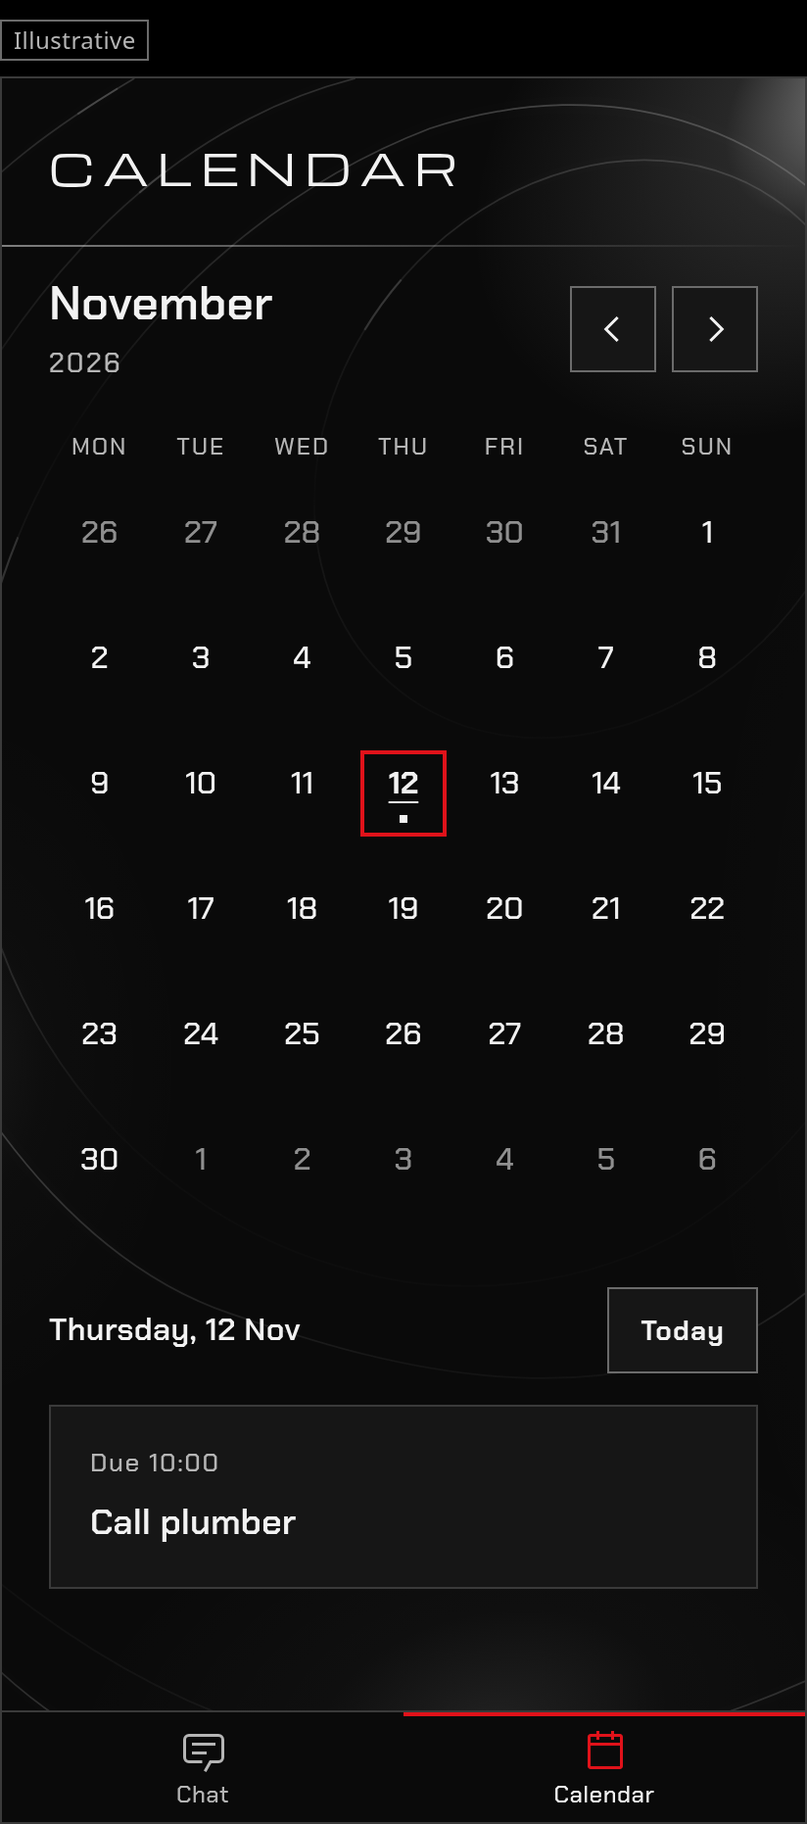
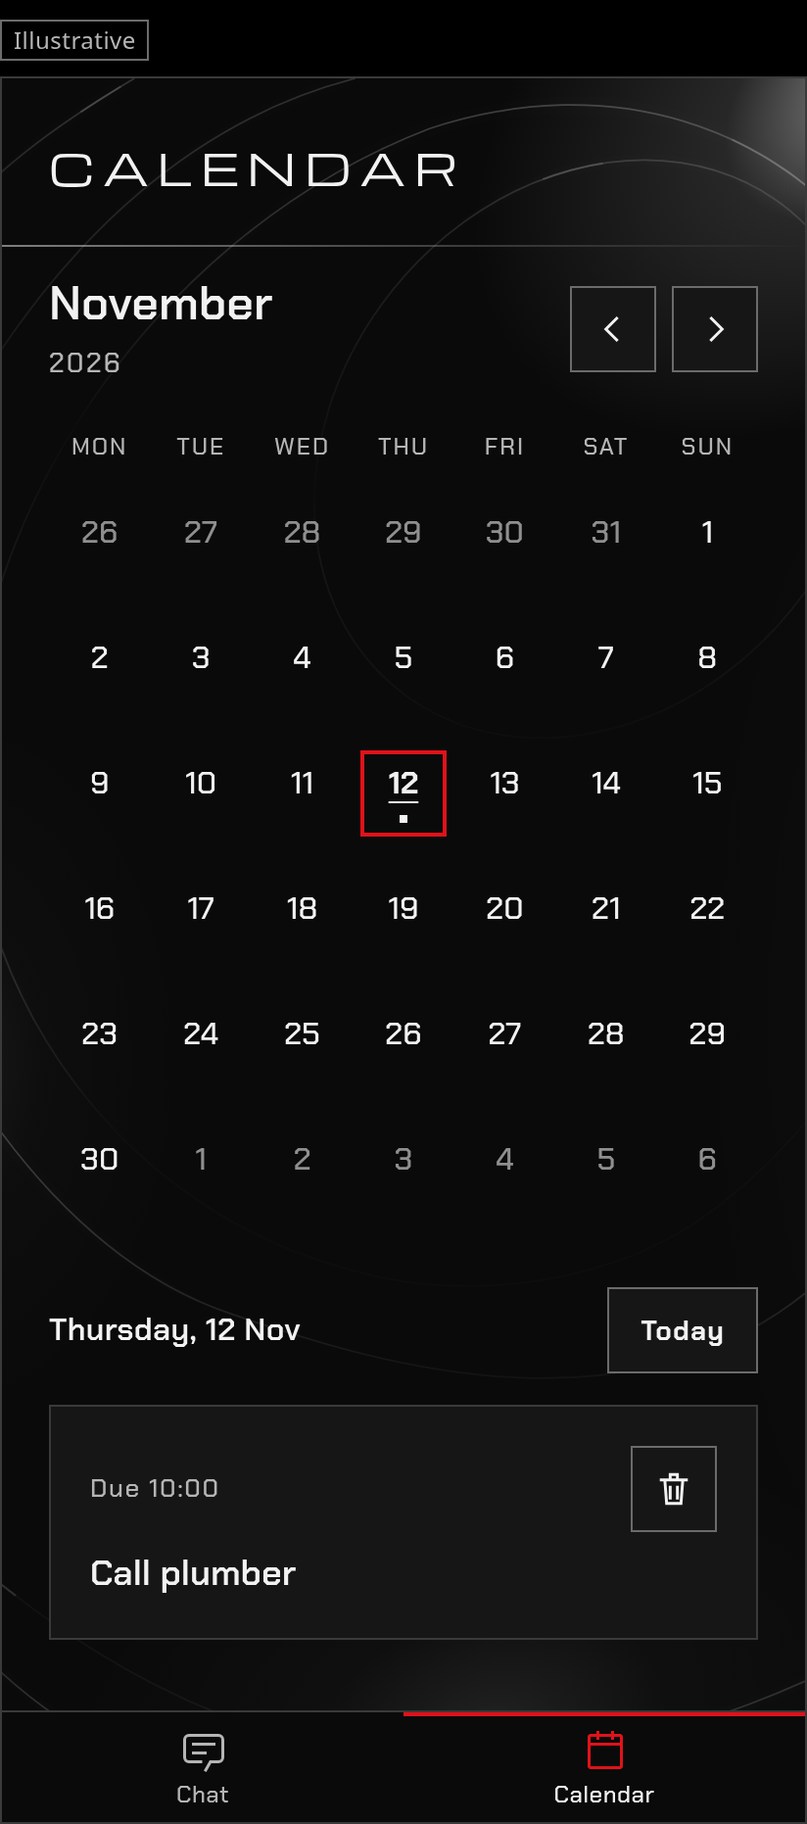
Document deleting items, the quieter Retry and the calendar Delete control

Changed region(s): [[0.091, 0.7787, 0.3641, 0.8722], [0.8192, 0.8099, 0.8495, 0.841], [0.0607, 0.8722, 0.091, 0.9033]]

diff --git a/brand/index.html b/brand/index.html
@@ -310,6 +310,7 @@ footer{padding:28px 20px 28px calc(var(--col) + 24px);font-size:12px;letter-spac
 .calendar-layout .cal-date{font-size:16px;font-weight:600;line-height:24px;letter-spacing:.01em}
 .calendar-layout .cal-today{width:auto;padding:0 16px}
 .calendar-layout .cal-event{margin-top:16px;padding:20px;background:var(--panel);border:1px solid var(--line)}
+.calendar-layout .cal-event-top{display:flex;align-items:center;justify-content:space-between;gap:16px}
 .calendar-layout .cal-time{color:var(--muted);font-size:13px;line-height:18px;letter-spacing:.06em}
 .calendar-layout .cal-event-title{margin-top:8px;font-size:18px;font-weight:600;line-height:26px}
 .calendar-example-wrap{max-width:100%;overflow-x:auto;margin-top:24px}
@@ -606,7 +607,7 @@ footer{padding:28px 20px 28px calc(var(--col) + 24px);font-size:12px;letter-spac
   <div class="cal-day other"><div class="cal-face"><span class="cal-number">5</span><span class="cal-marker"></span></div></div>
   <div class="cal-day other"><div class="cal-face"><span class="cal-number">6</span><span class="cal-marker"></span></div></div>
  </div>
- <div class="cal-agenda"><div class="cal-agenda-header"><div class="cal-date">Thursday, 12 Nov</div><span class="cal-control cal-today">Today</span></div><div class="cal-event"><div class="cal-time">Due 10:00</div><div class="cal-event-title">Call plumber</div></div></div>
+ <div class="cal-agenda"><div class="cal-agenda-header"><div class="cal-date">Thursday, 12 Nov</div><span class="cal-control cal-today">Today</span></div><div class="cal-event"><div class="cal-event-top"><div class="cal-time">Due 10:00</div><span class="cal-control cal-delete" aria-label="Delete"><svg viewBox="0 0 24 24"><path d="M5 7h14M10 7V4h4v3M7 7l1 13h8l1-13M10 11v6M14 11v6"/></svg></span></div><div class="cal-event-title">Call plumber</div></div></div>
 </div>
 <div class="nav two"><div><i class="cb i-chat"></i>Chat</div><div class="on"><i class="cb i-cal"></i>Calendar</div></div>
 </div></div>

diff --git a/docs/mockups/calendar.html b/docs/mockups/calendar.html
@@ -56,7 +56,7 @@
   <div class="cal-day other"><div class="cal-face"><span class="cal-number">5</span><span class="cal-marker"></span></div></div>
   <div class="cal-day other"><div class="cal-face"><span class="cal-number">6</span><span class="cal-marker"></span></div></div>
  </div>
- <div class="cal-agenda"><div class="cal-agenda-header"><div class="cal-date">Thursday, 12 Nov</div><span class="cal-control cal-today">Today</span></div><div class="cal-event"><div class="cal-time">Due 10:00</div><div class="cal-event-title">Call plumber</div></div></div>
+ <div class="cal-agenda"><div class="cal-agenda-header"><div class="cal-date">Thursday, 12 Nov</div><span class="cal-control cal-today">Today</span></div><div class="cal-event"><div class="cal-event-top"><div class="cal-time">Due 10:00</div><span class="cal-control cal-delete" aria-label="Delete"><svg viewBox="0 0 24 24"><path d="M5 7h14M10 7V4h4v3M7 7l1 13h8l1-13M10 11v6M14 11v6"/></svg></span></div><div class="cal-event-title">Call plumber</div></div></div>
 <div class="nav two"><div><i class="cb i-chat"></i>Chat</div><div class="on"><i class="cb i-cal"></i>Calendar</div></div>
 </div>
 </div></div></body></html>

diff --git a/docs/mockups/common.css b/docs/mockups/common.css
@@ -188,6 +188,7 @@ html,body{margin:0;background:#000}
 .calendar-layout .cal-date{font-size:16px;font-weight:600;line-height:24px;letter-spacing:.01em}
 .calendar-layout .cal-today{width:auto;padding:0 16px}
 .calendar-layout .cal-event{margin-top:16px;padding:20px;background:var(--panel);border:1px solid var(--line)}
+.calendar-layout .cal-event-top{display:flex;align-items:center;justify-content:space-between;gap:16px}
 .calendar-layout .cal-time{color:var(--muted);font-size:13px;line-height:18px;letter-spacing:.06em}
 .calendar-layout .cal-event-title{margin-top:8px;font-size:18px;font-weight:600;line-height:26px}
 .calendar-example-wrap{max-width:100%;overflow-x:auto;margin-top:24px}

diff --git a/docs/evidence/app-icon.md b/docs/evidence/app-icon.md
@@ -1,36 +1,32 @@
-# App icon redesign and faster highlights
+# App icon and orbital highlights
 
-Date: 2026-11-13. Branch: `app-icon-orbital` (from `notification-body-tap`; merged into local `main`, not pushed). Version 0.6.1+21, then 0.6.2+22.
+Date: 2026-11-13. Version 0.6.2+22. Merged into local `main`; not pushed.
 
-The owner chose the Michroma M with a lit rim (variant C) over the Orbital background, then asked for 75 percent more intense background animation. A first change raised highlight alphas; the owner rejected it. Highlight brightness is unchanged. APK 0.6.1 made highlights 1.75 times faster (102.857 s loop). The owner then asked for another 50 percent: APK 0.6.2 loops in 68.571 s, 2.625 times the original 180 s speed. APK 0.6.1 and the first 0.6.2 draft moved linearly (`AnimationController.repeat()`, no curve). The owner then asked for ease in and out: the highlight painter now applies `Curves.easeInOut` to the loop value, so highlights slow near each loop point and peak at about 1.5 times the mean speed mid-loop.
+## Current state
 
-## Icon
+The launcher icon is the Michroma M with a lit rim over the Orbital background. It has no Signal red.
+`brand/app-icon.svg` has two layers, `minder-orbit` and `minder-mark`. The M outline comes from `app/assets/fonts/Michroma-Regular.ttf` and is 52 units wide.
+`toolchain/render-icons.py` exports the Android adaptive background and foreground as bitmaps, the monochrome vector, the legacy and web PNGs, the favicon and the grant logo.
+The adaptive background shrinks the orbit art to 75 percent so the lines stay inside circle and squircle masks.
 
-`brand/app-icon.svg` has two layers: `minder-orbit` and `minder-mark`. The M outline comes from `app/assets/fonts/Michroma-Regular.ttf`, 52 units wide. The icon has no Signal red.
-`toolchain/render-icons.py` exports the Android adaptive background and foreground (bitmap), the monochrome vector, legacy and web PNGs, the favicon and the grant logo.
-The adaptive background shrinks the orbit art to 75 percent so the lines remain inside circle and squircle masks. Mask previews were checked by eye at circle, squircle and 72 dp size; no physical launcher was checked.
+The orbital highlights ease in and out (`Curves.easeInOut`) over a 68.571 s loop. That is 2.625 times the speed of the original 180 s linear loop. Peak speed mid-loop is about 1.5 times the mean. Highlight brightness did not change.
 
 ## Checks
 
-| Command or check | Observed result |
+| Check | Result |
 |---|---|
-| New loop-speed test at the old 180 s duration | Failed as expected |
-| Same test after the change to 102.857 s | Passed |
-| `toolchain/check` | Passed, exit 0: 85 Flutter tests, analysis, format, Go, hooks, architecture, DOX and orbital export checks |
+| Loop-time test at the old 180 s duration | Failed, as expected |
+| Ease test at linear motion | Failed, as expected |
+| Both tests after the change | Passed |
+| `toolchain/check` | Exit 0, 86 Flutter tests, with analysis, format, Go, hooks, architecture, DOX and orbital export checks |
 | `toolchain/run flutter flutter build apk --release --target-platform android-arm64` | Exit 0, 19,224,006 bytes |
-| APK badging (aapt2) | `io.liveleds.minder`, version 0.6.1, version code 21 |
-| APK signature (apksigner) | Verified; certificate SHA-256 `7bbc3aba…d2572` matches the previous APK |
-| APK adaptive icon | Background, foreground and monochrome layers present |
+| aapt2 badging | `io.liveleds.minder`, version 0.6.2, code 22 |
+| apksigner | Verified. The certificate SHA-256 `7bbc3aba…d2572` matches earlier APKs |
 
[1 lines of base64/hex data omitted]
-
-## Delivery
-
-Telegram delivery used the TokenCrypt secrets `telegram_astrabot_token` and `telegram_astrabot_chatid` and the existing bot and chat. Telegram confirmed one upload (message 1993, HTTP 200). A first attempt with a mistaken `--with` list returned 404 and delivered nothing.
-
[2 lines of base64/hex data omitted]
+Telegram confirmed one upload of 0.6.2 (message 1994). Delivery used the TokenCrypt secrets `telegram_astrabot_token` and `telegram_astrabot_chatid`. APK 0.6.1 reached Telegram earlier (message 1993).
 
 ## Limits
 
-- Frame timing, battery use and the look on a physical launcher are unchecked. Phone approval is pending.
-- Release web and the browser scenarios were not run; the change does not cross the client/server boundary.
+- Nobody has checked the icon on a physical launcher, or frame timing and battery use. Phone approval is pending.
+- Release web and the browser scenarios did not run for this change. It does not cross the client/server boundary.

diff --git a/docs/superpowers/specs/2026-11-13-delete-items-design.md b/docs/superpowers/specs/2026-11-13-delete-items-design.md
@@ -4,7 +4,7 @@ Status: approved by the owner on 2026-11-13 ("Yes") as one slice. Inline executi
 
 ## Intent
 
-An event added by accident confuses the agent when the owner adds something similar. Chat has no cancel tool, so "cancel it" falls back to `propose_complete` and the item becomes `done`. The chat list also keeps a "Check your connection. Retry" block after the connection recovers, and the list pins it into view.
+The owner added an event by accident, and it confuses the agent when they add something similar. Chat has no cancel tool, so "cancel it" falls back to `propose_complete` and the item becomes `done`. The chat list also keeps a "Check your connection. Retry" block after the connection recovers, and the list pins it into view.
 
 ## Goals
 
@@ -16,11 +16,11 @@ An event added by accident confuses the agent when the owner adds something simi
 
 - No bulk delete. No new screens. No change to the email capture flow beyond deleting an orphaned source.
 - A delete that leaves chat cards, reminders or an unused email source behind has failed.
-- A connection drop must never leave a block in chat after recovery.
+- After a connection drop recovers, no error block stays in the chat list.
 
 ## Approaches
 
-1. **Add `propose_cancel` and `propose_delete` tools** and a `delete_item` action through the existing preview, Confirm and Undo flow. Chosen: it matches every other change and keeps deletes confirmed.
+1. **Add `propose_cancel` and `propose_delete` tools** and a `delete_item` action through the existing preview, Confirm and Undo flow. Chosen: it follows the flow of the other changes and keeps deletes confirmed.
 2. Let `propose_update` set `status` to cancelled and add a hard-delete endpoint outside chat. Rejected: two paths for one change, and no preview in chat.
 3. Prompt-only fix ("use update for cancel"). Rejected: the model has no tool that reaches `cancel_item`.
 
@@ -32,12 +32,12 @@ An event added by accident confuses the agent when the owner adds something simi
 - **Undo.** The result card has Undo. Undo restores the item and its reminders. It does not restore chat cards or an email source; the card says so.
 - **Client sync.** The result's `Change.removed_entry_ids` lists the chat entries removed. The app drops them from memory.
 - **Calendar.** Each agenda card has a 44 px Delete button. It calls `POST /v1/items/{id}/delete` with `expected_version`, shows the preview in a dialog, then Confirm (`/v1/changes/{id}/confirm`) or Discard.
-- **Retry.** A transport failure on send restores the text to the composer and sets no `error`. Other send failures show a message with no Retry button; it clears on the next successful sync or send. The sign-in block is unchanged. Persisted `error` entries keep their Retry.
+- **Retry.** A transport failure on send restores the text to the composer and sets no `error`. Other send failures show a message without a Retry button. It clears on the next send or action; a sync would clear it within seconds, before you could read it. The sign-in block is unchanged. Persisted `error` entries keep their Retry.
 
 ## Constraints
 
 - Keep old migration files unchanged; this slice needs no migration.
-- Logs never carry titles or text. Log IDs and counts.
+- Logs carry IDs and counts, not titles or text.
 - Phone approval gates the merge. No deployment without the owner's word.
 
 ## Left to the builder

diff --git a/docs/calendar-spec.md b/docs/calendar-spec.md
@@ -1,6 +1,6 @@
 # Calendar page
 
-Status 2026-11-12. The owner asked for a calendar page. The page is read-only. Chat stays the place where you create and change items. Design rules: [foundation.md](foundation.md). Evidence: [evidence/m1.md](evidence/m1.md).
+Status 2026-11-12. The owner asked for a calendar page. The page shows items and can delete them. Chat stays the place where you create and change items. Design rules: [foundation.md](foundation.md). Evidence: [evidence/m1.md](evidence/m1.md).
 
 ## Behaviour
 
@@ -8,7 +8,7 @@ Status 2026-11-12. The owner asked for a calendar page. The page is read-only. C
 - The page shows one month as a grid. Weeks start on Monday. The grid always shows six weeks, so days of the next and last month show dimmed.
 - Day targets are 56 px high, with 8 px gaps between weeks and an inset 44 px selection frame. Each day shows up to three small squares for its items. Today is underlined. The selected day has a red frame. Opening the page selects today.
 - The month and year have separate lines. Grouped arrows on the right move one month. Today sits beside the agenda date and returns to the current month. Moving the month selects its first day.
-- Under the grid, the agenda lists the items of the selected day, earliest first. Each entry shows the time, the title and small tags for duration, priority, location, list and repeat. A finished item is struck through.
+- Under the grid, the agenda lists the items of the selected day, earliest first. Each entry shows the time, the title and small tags for duration, priority, location, list and repeat. A finished item is struck through. Each card has a Delete control (a 44 px square at the top right). It opens a dialog with the server preview of what the delete removes, with Delete and Keep it. Delete removes the item and its data and cannot be undone from the calendar; Undo is on the chat result card.
 - An item sits on its start day, else its deadline day. An item with neither does not show. An item with a start shows "09:00". An item with only a deadline shows "Due 17:00".
 - An empty day says "Nothing planned."
 - Without a connection, the page keeps its last items and shows the error with a Retry button.

diff --git a/docs/superpowers/plans/2026-11-13-delete-items.md b/docs/superpowers/plans/2026-11-13-delete-items.md
@@ -13,8 +13,8 @@
 ## Global Constraints
 
 - Test first. `toolchain/check` must pass. DOX updated for each touched folder.
-- No migration. Logs carry IDs and counts only, never titles or text.
-- Never push or deploy. Commit without co-author trailers.
+- No migration. Logs carry IDs and counts, not titles or text.
+- Do not push or deploy. Commit without co-author trailers.
 - Existing cancel behaviour of `cancel_item` (status `cancelled`) is unchanged.
 
 ## Review Focus
@@ -56,7 +56,7 @@
 **Files:** Test `server/assistant/assistant_test.go`.
 
 - [ ] Failing test: after Confirm of a delete, `History(0, 20)` holds none of the item's earlier previews or results and `contextItems` excludes the item.
-- [ ] Fix only what the test shows. Commit.
+- [ ] Fix what the test shows and nothing else. Commit.
 
 ### Task 4: Calendar preview endpoint
 
@@ -71,7 +71,7 @@
 
 **Files:** Modify `app/lib/application/chat_controller.dart`, `app/lib/ui/chat_screen.dart`; Test `app/test/chat_test.dart`.
 
-**Interfaces:** Produces `ChatController.unsentText` (`String?`, set when a send fails; the screen moves it into an empty composer and clears it). `error` holds a message for non-transport failures only, with no Retry button, and clears on the next successful sync or send. Sign-in block unchanged.
+**Interfaces:** Produces `ChatController.takeUnsentText()` (returns the text of a failed send once) and `hasUnsentText`. The screen puts that text in front of anything typed since. `error` holds a message for non-transport failures only, with no Retry button, and clears on the next send or action. The sign-in block is unchanged.
 
 - [ ] Failing tests: a transport-failed send sets no `error`, shows no `Retry`, and the composer holds the text; the Retry block does not appear after recovery; a non-transport failure shows its message and no Retry; text typed while offline is kept.
 - [ ] Implement; remove `_lastText`/`_retryAction` guard logic. Update the existing "a failed send keeps its inline Retry" test to the new rule. Commit.

diff --git a/app/test/AGENTS.md b/app/test/AGENTS.md
@@ -17,7 +17,7 @@ Calendar spacing tests check the 8 px week gap, inset selection, Today placement
 Orbital tests cover the 68.571 s highlight loop, ease in and out, highlight movement with a pixel-stable artwork layer, distinct scenes, stable foreground builds, reduced motion and lifecycle pauses. Screen goldens use reduced motion for deterministic captures.
 `native_auth_probe.dart` is an emulator-only callback probe.
 
-Connection status tests cover the grace period, the header icon, recovery, no banner for background drops and the inline Retry for failed sends. Question tests (`question_view_test.dart`) cover the found-items card, quick replies and typed replies. Preview card tests (`preview_card_test.dart`) cover the title once, inline timezones, units, labels, inert notes and reminder chips. Capture tests cover source evidence, typed authenticated attachment bytes, targeted answers while normal chat waits, Do nothing and zero-item wording, and hotel-night overlap without checkout.
+Connection status tests cover the grace period, the header icon, recovery, no banner for background drops, the restored composer text after a failed send (also with newer typed text), a server refusal message without Retry, and removal of deleted cards. Calendar tests cover the 44 px Delete control, its preview dialog, Confirm and Keep it. Question tests (`question_view_test.dart`) cover the found-items card, quick replies and typed replies. Preview card tests (`preview_card_test.dart`) cover the title once, inline timezones, units, labels, inert notes and reminder chips. Capture tests cover source evidence, typed authenticated attachment bytes, targeted answers while normal chat waits, Do nothing and zero-item wording, and hotel-night overlap without checkout.
 
 # Work Guidance
 

diff --git a/brand/AGENTS.md b/brand/AGENTS.md
@@ -13,7 +13,7 @@ This `brand/` folder owns `index.html`, `app-icon.svg`, its PNG preview and the 
 - Signal red has five uses: focus frame, overdue or urgent state, primary action, selected or active state, live recording. Everything else is neutral. No text is below 12 px. Every control has a 44 × 44 px hit area. `--edge` is for outlines only, never text.
 - The Components section mirrors the component rules of `docs/mockups/common.css`; change both in the same edit.
 - Chat and Calendar share the Calendar header treatment, one title row and a rule below it that fades left to right. Both use the same spacing. Headers have no buttons. Keep presence/status copy out of headers. A shared two-item bottom bar (Chat, Calendar) is 56 px high.
-- The calendar example defines 8/16/24/32 px spacing, grouped month arrows, an inset selection frame and a scrolling agenda. Keep it aligned with Flutter and the shared mockup styles.
+- The calendar example defines 8/16/24/32 px spacing, grouped month arrows, an inset selection frame and a scrolling agenda. Keep it aligned with Flutter and the shared mockup styles. The agenda card carries a 44 px Delete control at its top right.
 - Orbital SVGs own fixed paths, lighting and edge gradients in a 462×868 reference plane. Small highlights travel along paths over about 69 seconds, easing in and out. Honour reduced motion.
 - The concept reference is docs/evidence/orbital-concepts.png. SVGs are authoring inputs; the app compiles exported paths and the guide embeds exported SVGs. No runtime asset route is needed.
 - Run `python3 toolchain/export-orbits.py` after artwork edits. It exports Flutter geometry/lighting and inline SVGs in the guide and mockups. Do not hand-edit exports.

diff --git a/app/lib/application/AGENTS.md b/app/lib/application/AGENTS.md
@@ -14,7 +14,7 @@ Calendar requests ignore superseded results. Notification state reflects registr
 Disposed notification controllers stop work after pending native results and leave unhandled actions for retry.
 Controllers cancel their own work; they do not close injected shared repositories.
 
-ChatController marks `showOffline` only after the connection stays down for the grace period (2 seconds); background transport failures (`RepositoryFailure.transport`) never set `error`, while failed sends and actions keep their inline Retry. CaptureController owns targeted and quick-reply answers, dismissal, source actions and disposal guards. Capture events never clear unrelated chat waiting. Calendar selection includes occupied event/date ranges.
+ChatController marks `showOffline` only after the connection stays down for the grace period (2 seconds); transport failures (`RepositoryFailure.transport`) never set `error`: only the header icon shows them. A failed send keeps its text in `takeUnsentText()` and the screen puts it back in the composer. Other failures set `error`, a message without Retry that clears on the next send or action (a sign-in message also clears when sync succeeds). A `removed_entry_ids` list on a result removes those entries from memory. CalendarController previews, confirms and discards item deletes through ItemRepository. CaptureController owns targeted and quick-reply answers, dismissal, source actions and disposal guards. Capture events never clear unrelated chat waiting. Calendar selection includes occupied event/date ranges.
 
 # Work Guidance
 

diff --git a/app/lib/ui/AGENTS.md b/app/lib/ui/AGENTS.md
@@ -26,7 +26,7 @@ QuestionView shows the open questions of an email as their own message, with age
 
 Calendar items with source links open a read-only email/attachment dialog; authenticated downloads remain available after the original capture leaves recent chat.
 
-ScreenHeader takes an optional `trailing` control; Chat shows a 44 px offline icon there (tap to retry) and no connection banner. Preview cards come from `previewRows`: the title shows once, Starts/Ends carry their timezone inline, Duration and Type read as words (Appointment for `event`), Address is the `location` field, notes show as plain-text bullets capped at 600 characters, and reminders are `ReminderChips` that call `setReminders` while the change is pending.
+Each calendar agenda card has a 44 px Delete icon button (tooltip `Delete`) in its top row. It opens `ItemDeleteDialog`, which shows the server preview (what goes with the item), then Delete or Keep it; the dialog cannot be dismissed from outside. The chat error block shows a message only (no Retry); sign-in keeps its button. ScreenHeader takes an optional `trailing` control; Chat shows a 44 px offline icon there (tap to retry) and no connection banner. Preview cards come from `previewRows`: the title shows once, Starts/Ends carry their timezone inline, Duration and Type read as words (Appointment for `event`), Address is the `location` field, notes show as plain-text bullets capped at 600 characters, and reminders are `ReminderChips` that call `setReminders` while the change is pending.
 
 # Work Guidance
 

diff --git a/docs/screens.md b/docs/screens.md
@@ -1,6 +1,6 @@
 # Minder screens (draft)
 
-Status 2026-11-11. Derived from [requirements.md](requirements.md). The app has two screens: Chat and a read-only Calendar ([calendar-spec.md](calendar-spec.md)). The owner decided that no other screen is needed now. Design rules are in [foundation.md](foundation.md). The first build slice is in [m0-spec.md](m0-spec.md).
+Status 2026-11-11. Derived from [requirements.md](requirements.md). The app has two screens: Chat and a Calendar that shows and deletes items ([calendar-spec.md](calendar-spec.md)). The owner decided that no other screen is needed now. Design rules are in [foundation.md](foundation.md). The first build slice is in [m0-spec.md](m0-spec.md).
 
 All names, dates, counts and times in the text and in the mockup are illustrative.
 
@@ -70,7 +70,7 @@ Serves: requirements §1.2, §5.2, §6.2, §7.
 
 ## Calendar
 
-Read-only month grid and agenda, with the fixed Calendar orbital artwork behind the content. The month heading and year sit beside grouped month arrows.
+Month grid and agenda with a Delete control on each card, with the fixed Calendar orbital artwork behind the content. The month heading and year sit beside grouped month arrows.
 Today sits beside the selected date in the agenda header.
 The whole page scrolls on short screens. Spacing and selection rules are in [foundation.md](foundation.md).
 Behaviour is in [calendar-spec.md](calendar-spec.md). The mockup is `mockups/calendar.html` with `mockups/calendar.png`.
